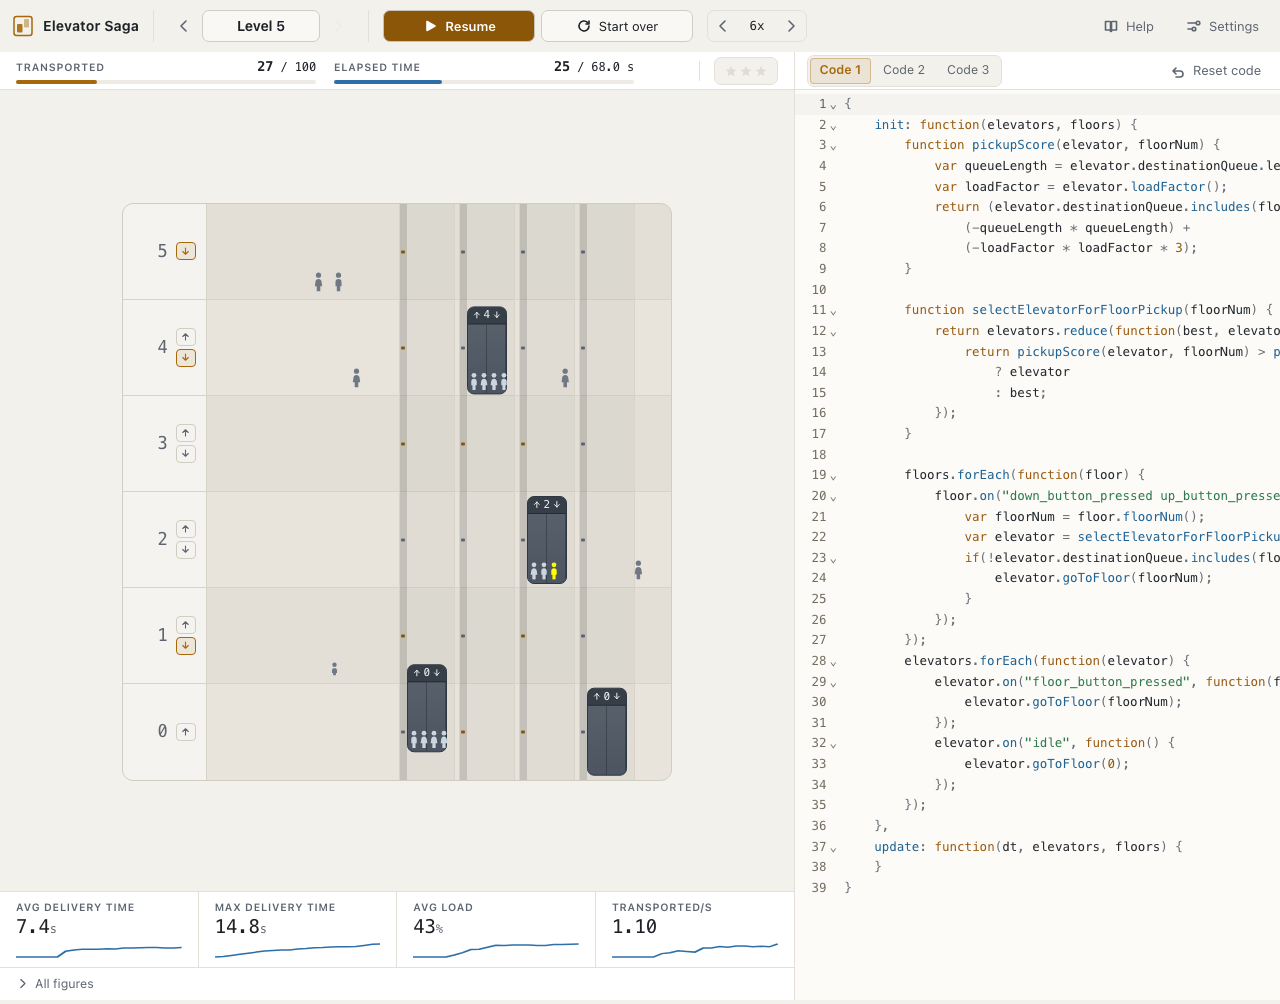
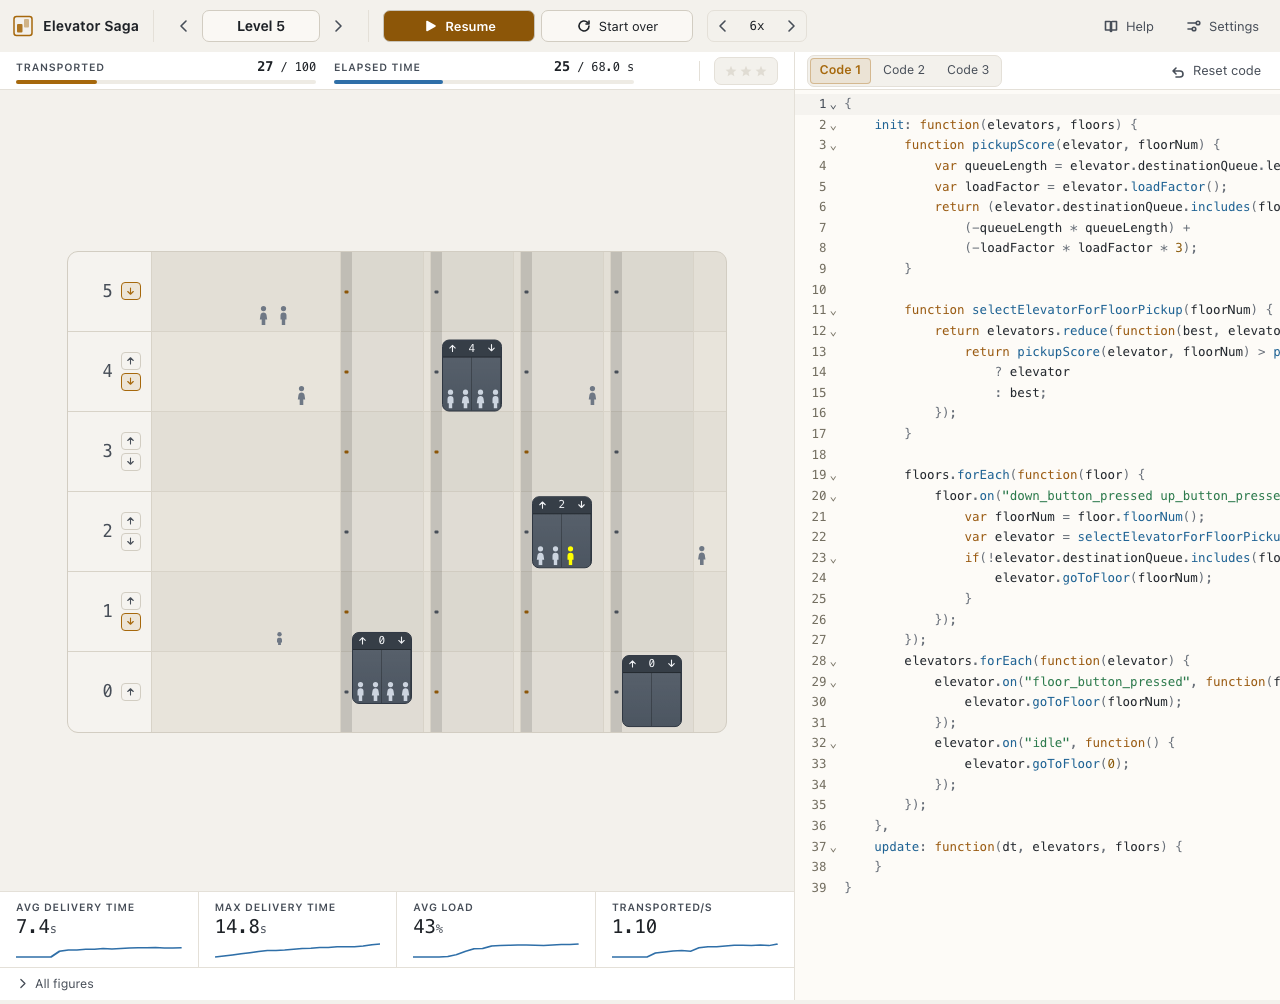
Read a hint's prose at the ratio 13px prose needs
--ds-text-muted carries almost every secondary line the game draws -- a
tutorial hint, a level briefing, the goal bar's labels, a floor number, a
figure's caption -- and most of that is set at 12 or 13px. It sat at 6.19:1
on a hint's raised card in the dark theme and 5.56:1 in the light one: past
WCAG 1.4.3's 4.5:1 floor, and still tiring over a paragraph.

Both themes now clear 1.4.6's 7:1 on the three surfaces the token is set on,
the page, a panel, and a raised card inside one. #b0b8c4 reads 9.14, 8.54 and
7.88 dark; #474e58 reads 7.45, 8.40 and 7.92 light. Each sits the same share
of the way from its own surface to --ds-text as the other does, so the step
down from primary text still reads as a step down rather than as the same ink:
L* 74.5 under text's 92.3 dark, 32.9 over its 13.0 light.

tokens.css.test.ts states the 7:1 for both themes, since the per-widget floors
already spelled elsewhere are all 4.5:1 and would not notice a drift back.
--ds-text-faint keeps its value: it draws icons and disabled controls, never
prose.

The README screenshot is regenerated -- it shows the goal bar and the floor
numbers, which this token inks.

diff --git a/src/shared/styles/tokens.css.test.ts b/src/shared/styles/tokens.css.test.ts
@@ -31,6 +31,18 @@ describe("the palette", () => {
     ).toBeGreaterThanOrEqual(4.5);
   });
 
+  it.each(THEMES)("keeps secondary prose comfortable on every surface, %s theme", (_, palette) => {
+    // --ds-text-muted carries hint, briefing, and caption text at 12-13px, so it
+    // answers to WCAG 1.4.6's 7:1 rather than 1.4.3's 4.5:1. These are the three
+    // surfaces it is set on: the page, a panel, and a raised card inside one.
+    for (const surface of ["ds-bg", "ds-panel", "ds-raised"]) {
+      expect(
+        contrast(themed(palette, "ds-text-muted"), themed(palette, surface)),
+        `--ds-text-muted on --${surface}`,
+      ).toBeGreaterThanOrEqual(7);
+    }
+  });
+
   it.each(THEMES)("keeps the sitewide focus ring readable on the page, %s theme", (_, palette) => {
     // A graphical indicator (WCAG 1.4.11's 3:1), not text (1.4.3's 4.5:1);
     // --ds-bg is the palest page surface it can be drawn against.

diff --git a/src/shared/styles/tokens.css b/src/shared/styles/tokens.css
@@ -28,7 +28,8 @@
   --ds-line-strong: #333a45;
 
   --ds-text: #e7e9ec;
-  --ds-text-muted: #9aa3b0;
+  /* Secondary prose (tutorial hints, briefings, captions): held at WCAG 1.4.6's 7:1 on bg, panel, and raised, since most of it is set at 12-13px. */
+  --ds-text-muted: #b0b8c4;
   --ds-text-faint: #6b7482;
 
   /* Brass: the main action, the active state, a lit call lamp. */
@@ -120,7 +121,8 @@ html[data-theme="light"] {
   --ds-line-strong: #d2cdc2;
 
   --ds-text: #1e2227;
-  --ds-text-muted: #5d6570;
+  /* Sits the same share of the way from the surface to --ds-text as the dark theme's does; see `:root`'s own note. */
+  --ds-text-muted: #474e58;
   --ds-text-faint: #8b929c;
 
   /* Tuned to clear WCAG 1.4.3's 4.5:1; the obvious #a8690c falls just short at 4.4767:1. */
